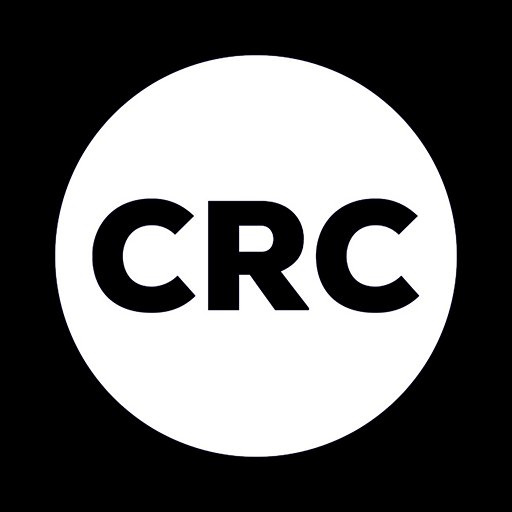
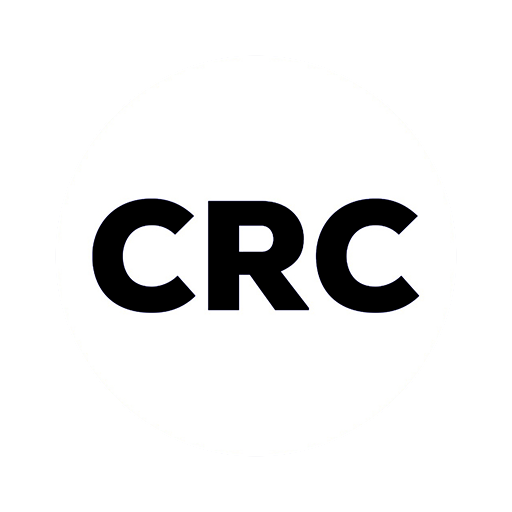
Show the CRC roundel and colour the department cards.
The header drops the church wordmark. The home page lists all five departments by name, each in its own colour, and Link pages use that green as an accent.

diff --git a/src/app/page.tsx b/src/app/page.tsx
@@ -4,28 +4,30 @@ import { BrandLogo } from "@/components/BrandLogo";
 import { Flash, one, type SP } from "@/components/Flash";
 import { APP_NAME } from "@/lib/brand";
 import { db } from "@/lib/db";
-import { departmentHref } from "@/lib/departments";
+import { DEPARTMENT_ORDER, departmentHref, departmentTheme } from "@/lib/departments";
 import { currentUser } from "@/lib/session";
 
 export const dynamic = "force-dynamic";
-export const metadata = { title: "Departments" };
+export const metadata = { title: "Department" };
 
 export default async function Home({ searchParams }: { searchParams: SP }) {
   const sp = await searchParams;
   const user = await currentUser();
-  const all = await db.department.findMany({ where: { active: true }, orderBy: [{ sort: "asc" }, { name: "asc" }] });
-  const visible = !user ? [] : user.appRole === "ADMIN" ? all : all.filter((d) => user.memberships.some((m) => m.departmentId === d.id));
+  const all = await db.department.findMany({ where: { active: true } });
+  const cards = DEPARTMENT_ORDER.map((slug) => all.find((d) => d.slug === slug)).filter((d) => d != null);
 
   return (
-    <div className="min-h-screen">
+    <div className="min-h-screen bg-slate-100">
       <header className="bg-black text-white">
-        <div className="mx-auto flex max-w-6xl items-center gap-3 px-4 py-3">
-          <BrandLogo className="h-10" alt="" />
-          <span className="text-lg font-bold">{APP_NAME}</span>
+        <div className="mx-auto flex max-w-5xl items-center gap-3 px-4 py-3">
+          <Link href="/" className="flex items-center gap-3">
+            <BrandLogo className="h-10" alt="" />
+            <span className="text-lg font-bold tracking-tight">{APP_NAME}</span>
+          </Link>
           <div className="ml-auto flex items-center gap-3 text-sm">
             {user ? (
               <>
-                <span className="truncate text-white/70">{user.name || user.email}</span>
+                <span className="max-w-[40vw] truncate text-white/70">{user.name || user.email}</span>
                 <form action={signOutAction}>
                   <button className="text-white/70 underline">Sign out</button>
                 </form>
@@ -36,23 +38,24 @@ export default async function Home({ searchParams }: { searchParams: SP }) {
           </div>
         </div>
       </header>
-      <main className="mx-auto max-w-6xl px-4 py-8">
+      <main className="mx-auto max-w-5xl px-4 py-8 sm:py-10">
         <Flash ok={one(sp.ok)} error={one(sp.error)} />
-        <h1 className="h1">Departments</h1>
-        {!user && <p className="muted mt-2">Sign in to see the departments you can open.</p>}
-        {user && visible.length === 0 && <p className="muted mt-2">You don’t have a department yet. Ask a lead to give you access.</p>}
-        <ul className="mt-6 grid gap-4 sm:grid-cols-2 lg:grid-cols-3">
-          {visible.map((d) => (
-            <li key={d.id}>
-              <Link href={departmentHref(d)} className="card block h-full hover:ring-2 hover:ring-black">
-                <div className="flex items-start justify-between gap-2">
-                  <h2 className="h2">{d.name}</h2>
-                  {!d.ready && <span className="chip shrink-0 bg-slate-100 text-slate-600">Coming soon</span>}
-                </div>
-                {d.blurb ? <p className="muted mt-2">{d.blurb}</p> : null}
-              </Link>
-            </li>
-          ))}
+        <h1 className="h1">Department</h1>
+        <ul className="mt-6 grid grid-cols-1 gap-4 sm:grid-cols-2 lg:grid-cols-3">
+          {cards.map((d) => {
+            const theme = departmentTheme(d.slug);
+            return (
+              <li key={d.id}>
+                <Link
+                  href={departmentHref(d)}
+                  className="flex min-h-28 items-center justify-center rounded-2xl px-5 py-8 text-center text-xl font-semibold shadow-md transition hover:-translate-y-0.5 hover:shadow-lg focus-visible:outline focus-visible:outline-2 focus-visible:outline-offset-2 focus-visible:outline-black"
+                  style={{ backgroundColor: theme.bg, color: theme.fg }}
+                >
+                  {d.name}
+                </Link>
+              </li>
+            );
+          })}
         </ul>
       </main>
     </div>

diff --git a/src/app/d/[slug]/page.tsx b/src/app/d/[slug]/page.tsx
@@ -1,22 +1,21 @@
 import Link from "next/link";
-import { redirect } from "next/navigation";
+import { notFound, redirect } from "next/navigation";
 import { BrandLogo } from "@/components/BrandLogo";
 import { APP_NAME } from "@/lib/brand";
 import { db } from "@/lib/db";
-import { assertDepartmentAccess, requireUser } from "@/lib/session";
+import { departmentTheme } from "@/lib/departments";
 
 export const dynamic = "force-dynamic";
 
 export default async function DepartmentPage({ params }: { params: Promise<{ slug: string }> }) {
   const { slug } = await params;
-  const user = await requireUser(`/d/${slug}`);
   const dept = await db.department.findUnique({ where: { slug } });
-  if (!dept || !dept.active) redirect("/");
-  assertDepartmentAccess(user, dept.id);
+  if (!dept || !dept.active) notFound();
   if (dept.ready && dept.slug === "link") redirect("/me");
+  const theme = departmentTheme(dept.slug);
 
   return (
-    <div className="min-h-screen">
+    <div className="min-h-screen bg-slate-100">
       <header className="bg-black text-white">
         <div className="mx-auto flex max-w-3xl items-center gap-3 px-4 py-3">
           <Link href="/" className="flex items-center gap-3">
@@ -24,15 +23,12 @@ export default async function DepartmentPage({ params }: { params: Promise<{ slu
             <span className="text-lg font-bold">{APP_NAME}</span>
           </Link>
         </div>
+        <div className="h-1.5" style={{ backgroundColor: theme.bg }} />
       </header>
       <main className="mx-auto max-w-3xl px-4 py-10">
-        <p className="text-sm text-slate-500"><Link href="/" className="underline">Departments</Link></p>
-        <h1 className="h1 mt-2">{dept.name}</h1>
-        <div className="card mt-6">
-          <p className="chip bg-slate-100 text-slate-700">Coming soon</p>
-          <p className="mt-3 text-slate-700">This department isn’t open in the app yet. Link is the one you can use today.</p>
-          {dept.blurb ? <p className="muted mt-2">{dept.blurb}</p> : null}
-        </div>
+        <p className="text-sm"><Link href="/" className="underline" style={{ color: theme.bg }}>Home</Link></p>
+        <h1 className="mt-4 inline-block rounded-2xl px-5 py-3 text-2xl font-semibold shadow-md" style={{ backgroundColor: theme.bg, color: theme.fg }}>{dept.name}</h1>
+        <p className="mt-6 text-lg text-slate-700">Coming soon</p>
       </main>
     </div>
   );

diff --git a/src/lib/departments.ts b/src/lib/departments.ts
@@ -2,14 +2,23 @@
  * Canonical department list. The database is the source of truth at runtime
  * (seeded, and inserted by migration). Permissions are DepartmentMember rows.
  * Link keeps /me, /roster, /admin, and the rest of its existing URLs.
+ *
+ * Card colours are chosen for contrast: light text on the dark fills,
+ * dark text on yellow and light blue.
  */
 export const DEPARTMENT_CATALOG = [
-  { slug: "cameras", name: "Cameras", blurb: "Cameras for services.", sort: 1, ready: false },
-  { slug: "directors", name: "Directors / Vision mixers", blurb: "Directing and vision mixing.", sort: 2, ready: false },
-  { slug: "graphics", name: "Graphic operators", blurb: "Lyrics and graphics.", sort: 3, ready: false },
-  { slug: "link", name: "Link", blurb: "Livestream, Link, and service leading. Answer slots, check in, and see who is serving.", sort: 4, ready: true },
-  { slug: "comms", name: "Comms", blurb: "Communications.", sort: 5, ready: false },
+  { slug: "link", name: "Link", blurb: "Livestream, Link, and service leading. Answer slots, check in, and see who is serving.", sort: 1, ready: true, bg: "#166534", fg: "#ffffff" },
+  { slug: "comms", name: "Comms", blurb: "Communications.", sort: 2, ready: false, bg: "#9f1239", fg: "#ffffff" },
+  { slug: "cameras", name: "Cameras", blurb: "Cameras for services.", sort: 3, ready: false, bg: "#7dd3fc", fg: "#082f49" },
+  { slug: "directors", name: "Directors / Vision mixers", blurb: "Directing and vision mixing.", sort: 4, ready: false, bg: "#1e3a8a", fg: "#ffffff" },
+  { slug: "graphics", name: "Graphic operators", blurb: "Lyrics and graphics.", sort: 5, ready: false, bg: "#facc15", fg: "#1c1917" },
 ] as const;
+
+export const DEPARTMENT_ORDER = DEPARTMENT_CATALOG.map((d) => d.slug);
+
+export function departmentTheme(slug: string) {
+  return DEPARTMENT_CATALOG.find((d) => d.slug === slug) ?? { slug, name: slug, blurb: "", sort: 99, ready: false, bg: "#334155", fg: "#ffffff" };
+}
 
 export function departmentHref(dept: { slug: string; ready: boolean }) {
   if (dept.ready && dept.slug === "link") return "/me";

diff --git a/src/app/(app)/layout.tsx b/src/app/(app)/layout.tsx
@@ -1,6 +1,7 @@
 import Link from "next/link";
 import { BrandLogo } from "@/components/BrandLogo";
 import { APP_NAME } from "@/lib/brand";
+import { departmentTheme } from "@/lib/departments";
 import { db } from "@/lib/db";
 import { getDepartment } from "@/lib/events";
 import { assertDepartmentAccess, isLead, requireUser } from "@/lib/session";
@@ -22,16 +23,14 @@ export default async function AppLayout({ children }: { children: React.ReactNod
   ];
   if (lead) links.push(["/admin/roster", "Admin", pendingClaims], ["/admin/people", "People"], ["/admin/rules", "Rules"]);
   if (user.appRole === "ADMIN") links.push(["/admin/setup", "Setup"], ["/admin/outbox", "Emails"]);
+  const theme = departmentTheme(dept.slug);
   return (
     <div className="min-h-screen pb-16">
       <header className="sticky top-0 z-20 bg-black text-white">
         <div className="mx-auto flex max-w-6xl items-center gap-3 px-4 py-2">
           <Link href="/" className="flex items-center gap-3">
             <BrandLogo className="h-9" alt="" />
-            <span className="leading-tight">
-              <span className="block text-sm font-bold">{APP_NAME}</span>
-              <span className="block text-xs font-medium text-white/70">{dept.name}</span>
-            </span>
+            <span className="text-sm font-bold">{APP_NAME}</span>
           </Link>
           <span className="ml-auto truncate text-xs text-white/70">{user.name || user.email}</span>
           <form action={signOutAction}>
@@ -46,6 +45,7 @@ export default async function AppLayout({ children }: { children: React.ReactNod
             </Link>
           ))}
         </nav>
+        <div className="h-1.5" style={{ backgroundColor: theme.bg }} />
       </header>
       <main className="mx-auto max-w-6xl px-4 py-5">{children}</main>
     </div>

diff --git a/src/components/BrandLogo.tsx b/src/components/BrandLogo.tsx
@@ -1,14 +1,14 @@
 import { APP_NAME } from "@/lib/brand";
 
 /**
- * Official CRC wordmark (white on transparent).
- * Source: https://crcchurch.com/_next/static/media/logo.0wuxmjuh~p2zn.webp
- * Put it on a black background so the white lockup stays visible.
+ * CRC roundel only (the letters CRC inside the circle).
+ * The full wordmark includes "Christian Revival Church", so the header uses this mark.
+ * Source of the mark: https://crcchurch.com/favicon.ico
  */
 export function BrandLogo({ className = "h-8", alt = APP_NAME }: { className?: string; alt?: string }) {
   // Plain img: the file is already small, and the image optimizer is extra memory on the church PC.
   return (
     // eslint-disable-next-line @next/next/no-img-element
-    <img src="/crc-logo.png" alt={alt} width={304} height={116} className={`${className} w-auto`} />
+    <img src="/crc-mark.png" alt={alt} width={512} height={512} className={`${className} aspect-square w-auto`} />
   );
 }

diff --git a/prisma/seed.ts b/prisma/seed.ts
@@ -56,10 +56,11 @@ async function main() {
   const adminName = process.env.SEED_ADMIN_NAME || "Tech Boost";
 
   for (const row of DEPARTMENT_CATALOG) {
+    const data = { name: row.name, sort: row.sort, blurb: row.blurb, ready: row.ready };
     await db.department.upsert({
       where: { slug: row.slug },
-      create: { ...row },
-      update: { name: row.name, sort: row.sort, blurb: row.blurb, ready: row.ready, active: true },
+      create: { slug: row.slug, ...data },
+      update: { ...data, active: true },
     });
   }
   const dept = await db.department.findUniqueOrThrow({ where: { slug: "link" } });
